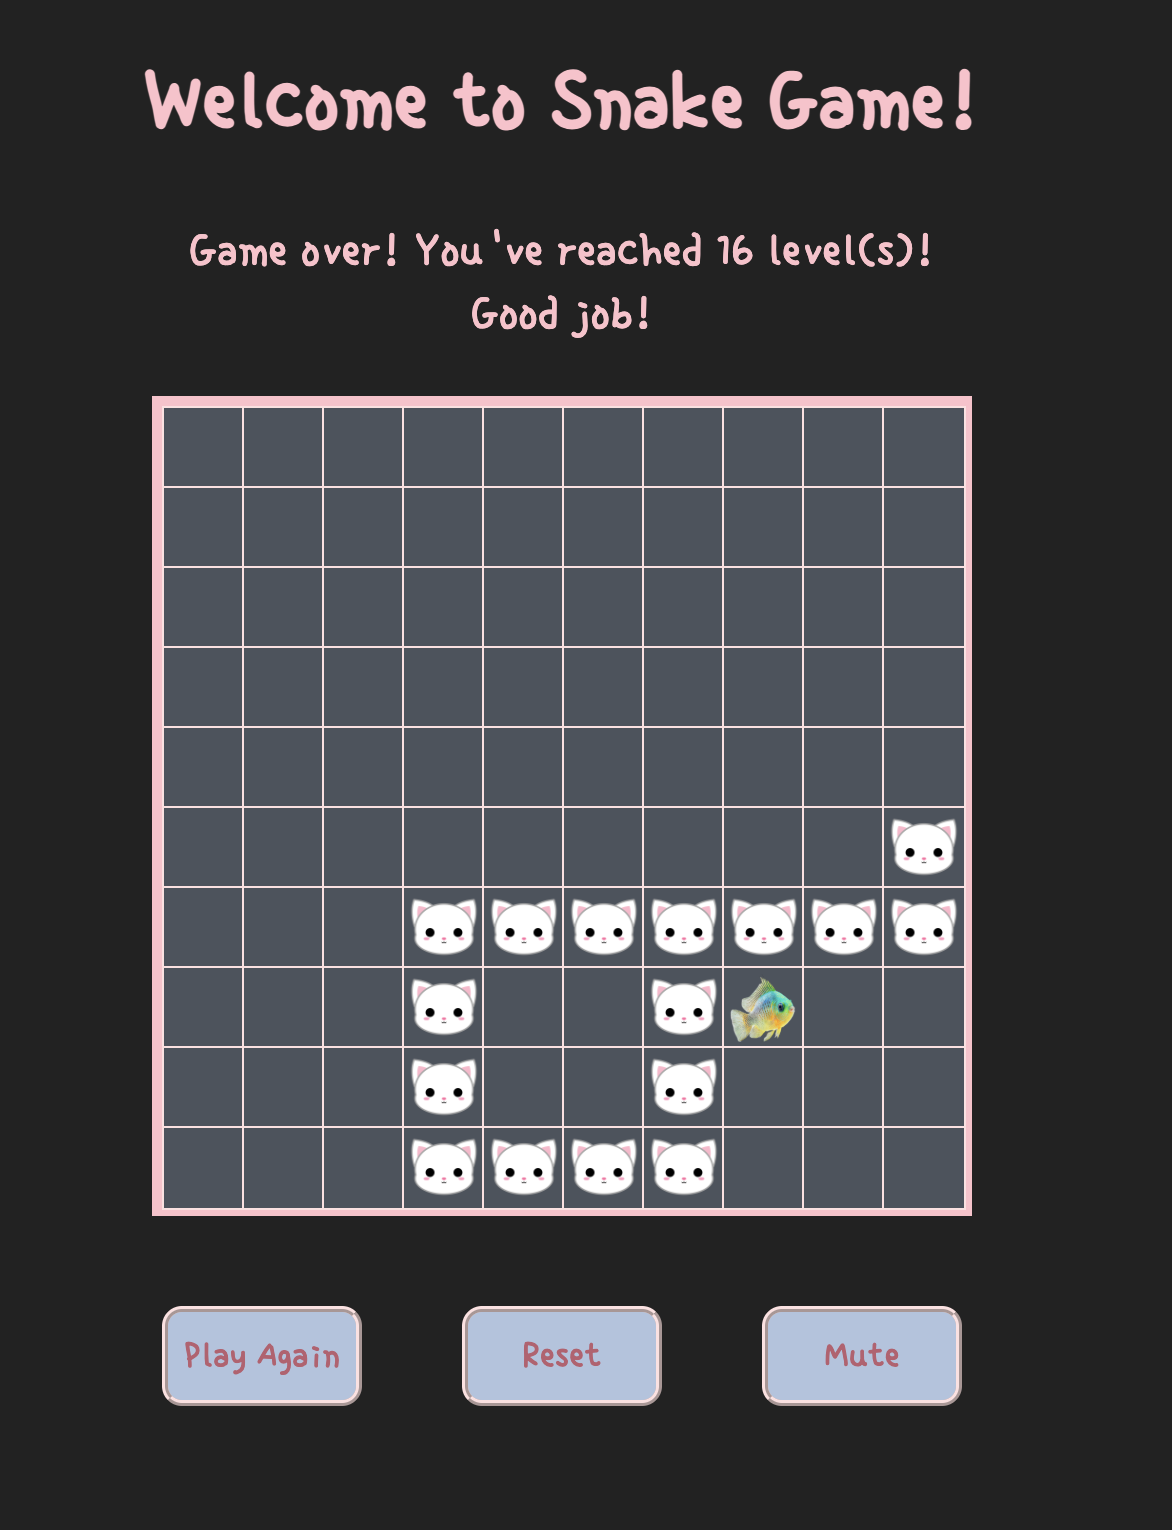
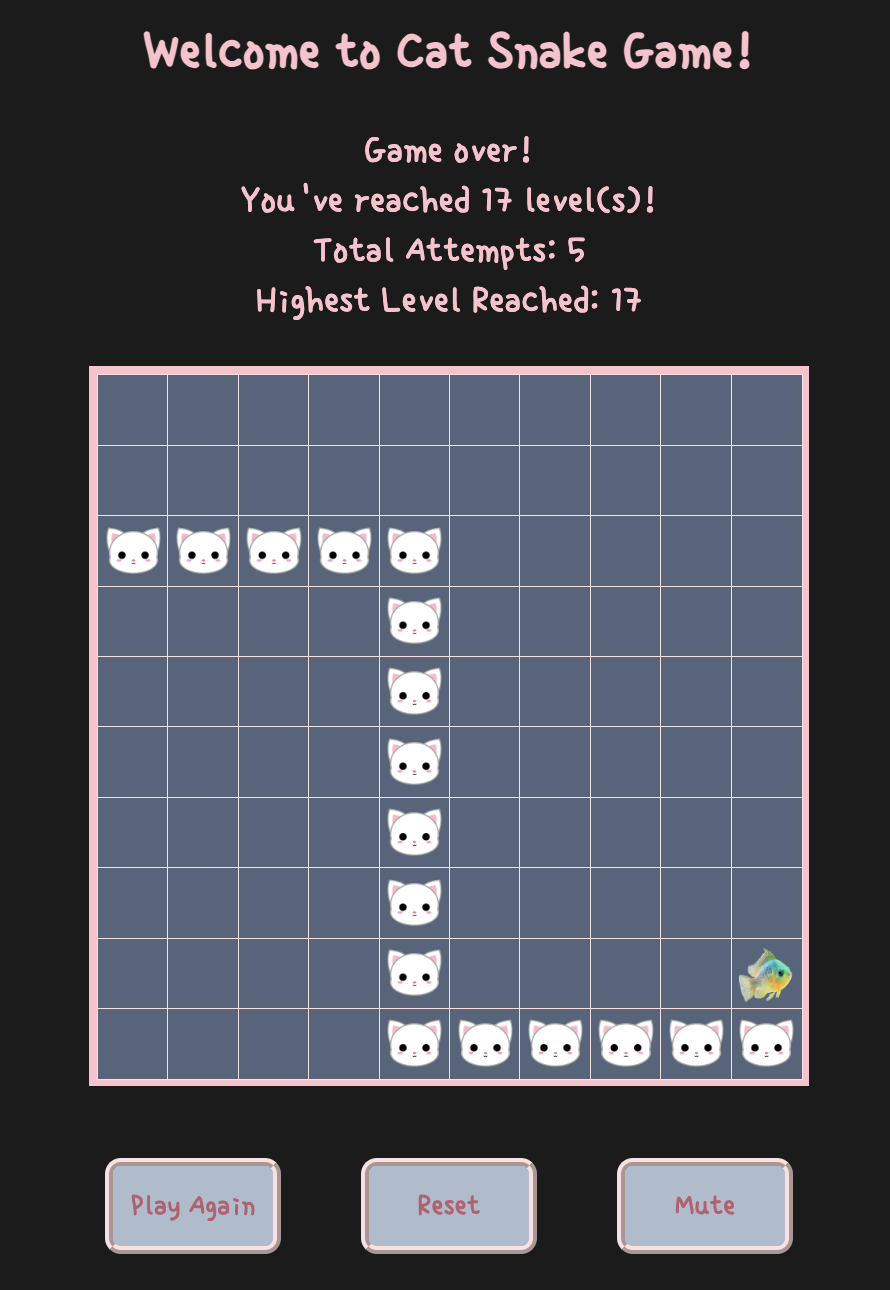
added max score and updated screenshot

diff --git a/js/app.js b/js/app.js
@@ -15,11 +15,10 @@ const originalStartMessage = startMessage.innerHTML;
 const food = document.getElementById("food");
 
 /*---------- Variables (state) ---------*/
-
-
 let gameState = initState();
 let moveInterval;
 let atttemptsCount = 0;
+let maxLevel = 1;
 
 /*-------------- Functions -------------*/
 function createBoard() {
@@ -38,7 +37,6 @@ function getRandomDirection() {
 // board should be cleared until start button is pressed
 function initState() {
     gameBoard.innerHTML = "";
-    // gameMessage.innerHTML = startMessage;
     return {
         level: null,
         snakePosition: null,
@@ -71,15 +69,18 @@ function startGame() {
     clearInterval(moveInterval);
     moveInterval = setInterval(updateGame, initSpeed);
     gameMessage.style.textAlign = "center";
-    gameMessage.innerHTML = `Total Attempts: ${atttemptsCount}<br>Current Level: ${gameState.level}`;
+    gameMessage.innerHTML = `Total Attempts: ${atttemptsCount}<br>Current Level: ${gameState.level}<br>Highest Level Reached: ${maxLevel}`;
 }
 
 function levelUp() {
     gameState.level += 1;
+    if (gameState.level > maxLevel) {
+        maxLevel += 1;
+    }
     clearInterval(moveInterval);
     moveInterval = setInterval(updateGame, initSpeed - 20 * gameState.level);
     gameMessage.style.textAlign = "center";
-    gameMessage.innerHTML = `Total Attempts: ${atttemptsCount}<br>Current Level: ${gameState.level}`;
+    gameMessage.innerHTML = `Total Attempts: ${atttemptsCount}<br>Current Level: ${gameState.level}<br>Max Level Reached: ${maxLevel}`;
 }
 
 
@@ -150,6 +151,9 @@ function reset() {
 }
 
 function updateGame() {
+    if (gameState.level > maxLevel) {
+        maxLevel = gameState.level;
+    }
     let newHead = { ...gameState.snakePosition[0] };
 
     if (gameState.snakeDirection === "up") {
@@ -208,6 +212,7 @@ function updateGame() {
         gameState.snakePosition.pop();
     }
 
+
     // render snake
     addSnake();
 };
@@ -223,7 +228,7 @@ function gameWon() {
 
 function gameOver() {
     gameMessage.style.textAlign = "center";
-    gameMessage.innerHTML = `Game over!<br>You've reached ${gameState.level} level(s)! <br>Currently on attempt No. ${atttemptsCount}! <br>You did great!`
+    gameMessage.innerHTML = `Game over!<br>You've reached ${gameState.level} level(s)! <br>Total Attempts: ${atttemptsCount}<br>Highest Level Reached: ${maxLevel}`
     clearInterval(moveInterval);
     startBtn.removeAttribute('disabled');
     startBtn.textContent = "Play Again";
